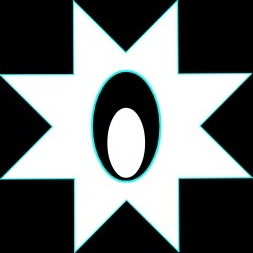
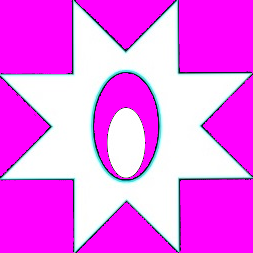
Redid texture file color key codes. Changed beam ammo. Added description to drops. Redid level generator (in progress). Added varying projectile motion. Added different drawing for projectiles.

diff --git a/Project3/Project3/Level.cs b/Project3/Project3/Level.cs
@@ -5,6 +5,7 @@ using System;
 using System.Collections.Generic;
 using Xaria.Drops;
 using Xaria.Enemies;
+using Xaria.Projectiles;
 
 namespace Xaria
 {
@@ -24,7 +25,7 @@ namespace Xaria
         /// <summary>
         /// The enemies
         /// </summary>
-        internal List<List<Enemy>> Enemies = new List<List<Enemy>>();
+        private List<List<Enemy>> Enemies = new List<List<Enemy>>();
         /// <summary>
         /// The spacing between enemies
         /// </summary>
@@ -42,7 +43,7 @@ namespace Xaria
         /// <summary>
         /// The enemies per row
         /// </summary>
-        private const int ENEMIES_PER_ROW = 7;
+        public const int ENEMIES_PER_ROW = 7;
         /// <summary>
         /// A random class for determining enemy shooting
         /// </summary>
@@ -67,35 +68,59 @@ namespace Xaria
         private void GenerateLevel(int difficulty)
         {
             Enemies.Clear();
-            if (difficulty % 5 == 0)
+            if (difficulty % 4 == 0)
             {
                 Enemies.Add(new List<Enemy>());
-                if(difficulty/5 == 1)
+                if(difficulty/4 == 1)
                 {
-                    Enemies[0].Add(new Boss1(new Vector2(random.Next(((int)Game1.screenSize.X - Game1.textureDictionary["boss1"].Width)), random.Next((500 + Game1.textureDictionary["boss1"].Width)))));
+                    Enemies[0].Add(new Boss1(new Vector2(random.Next(((int)Game1.screenSize.X - Game1.textureDictionary["boss1"].Width)), spacing.Y)));
+                    AddRowOfEnemy(typeof(Basic));
+                    AddRowOfEnemy(typeof(Basic));
                 }
-                else if(difficulty/5 == 2)
+                else if(difficulty/4 == 2)
                 {
-                    Enemies[0].Add(new Boss1(new Vector2(random.Next(((int)Game1.screenSize.X - Game1.textureDictionary["boss1"].Width)), random.Next((500 + Game1.textureDictionary["boss1"].Width)))));
-                    Enemies[0].Add(new Boss1(new Vector2(random.Next(((int)Game1.screenSize.X - Game1.textureDictionary["boss1"].Width)), random.Next((500 + Game1.textureDictionary["boss1"].Width)))));
+                    Enemies[0].Add(new Boss1(new Vector2(random.Next(((int)Game1.screenSize.X - Game1.textureDictionary["boss1"].Width)), spacing.Y)));
+                    Enemies[0].Add(new Boss1(new Vector2(random.Next(((int)Game1.screenSize.X - Game1.textureDictionary["boss1"].Width)), spacing.Y)));
+                    AddRowOfEnemy(typeof(Basic));
+                    AddRowOfEnemy(typeof(Basic));
                 }
-                else if(difficulty/5 == 3)
+                else if(difficulty/4 == 3)
                 {
                     Enemies[0].Add(new Boss3(new Vector2(Game1.textureDictionary["boss3"].Width, Game1.textureDictionary["boss3"].Height)));
                 }
-                else if(difficulty/5 == 4)
+                else if(difficulty/4 == 4)
                 {
                     Enemies[0].Add(new Boss4(new Vector2(Game1.textureDictionary["boss4"].Width, Game1.textureDictionary["boss4"].Height)));
                 }
             }
             else
             {
-                for (int i = 1; i <= difficulty; i++) //use rows for difficulty
+                for(int i = 0; i < difficulty % 4; i++)
                 {
-                    Enemies.Add(new List<Enemy>());
-                    for (int x = 1; x <= ENEMIES_PER_ROW; x++) //10 enemies per row
-                        Enemies[i - 1].Add(new Basic(new Vector2((Game1.textureDictionary["basic"].Width + spacing.X) * x - spacing.X + Game1.textureDictionary["basic"].Width * (i % 2), (Game1.textureDictionary["basic"].Height + spacing.Y) * i + spacing.Y)));
+                    AddRowOfEnemy(typeof(Basic));
                 }
+            }
+        }
+
+
+        private void AddRowOfEnemy(Type enemyType)
+        {
+            Enemy prevEnemy = Enemies.Count > 0 ? Enemies[Enemies.Count - 1][0] : null;
+            float newPosY = prevEnemy == null ? spacing.Y : prevEnemy.Position.Y + prevEnemy.Texture.Height + spacing.Y;
+            Enemies.Add(new List<Enemy>());
+            for (int x = 1; x <= ENEMIES_PER_ROW; x++)
+            {
+                Enemy enemy = null;
+                if (enemyType == typeof(Basic))
+                {
+                    enemy = new Basic(new Vector2((Game1.textureDictionary["basic"].Width + spacing.X) * x - spacing.X + Game1.textureDictionary["basic"].Width * (Enemies.Count % 2), newPosY));
+                }
+                else if (enemyType == typeof(Intermediate))
+                {
+                    enemy = new Intermediate(new Vector2((Game1.textureDictionary["intermediate"].Width + spacing.X) * x - spacing.X + Game1.textureDictionary["intermediate"].Width * (Enemies.Count % 2), newPosY));
+                }
+
+                Enemies[Enemies.Count - 1].Add(enemy);
             }
         }
 
@@ -157,7 +182,7 @@ namespace Xaria
         {
             for (int projectileIndex = Projectiles.Count - 1; projectileIndex >= 0; projectileIndex--)
             {
-                Projectiles[projectileIndex].Position += Projectiles[projectileIndex].GetVelocity();
+                Projectiles[projectileIndex].Move();
                 if (player.Intersects(Projectiles[projectileIndex]))
                 {
                     Projectiles[projectileIndex].OnCollision(ref player);
@@ -189,7 +214,7 @@ namespace Xaria
                 }
             foreach (Projectile projectile in Projectiles)
             {
-                projectile.Draw(ref spriteBatch, Color.Red);
+                projectile.DrawFromEnemy(ref spriteBatch);
             }
             foreach(Drop drop in Drops)
             {
@@ -203,15 +228,18 @@ namespace Xaria
         /// </summary>
         internal void MoveDown()
         {
-                foreach (List<Enemy> row in Enemies)
-                    foreach (Basic enemy in row)
+            foreach (List<Enemy> row in Enemies)
+                foreach (Enemy enemy in row)
+                {
+                    if (enemy is Basic || enemy is Intermediate)
                     {
                         enemy.Position.Y += (enemy.Texture.Height + spacing.Y);
                         if (enemy.Position.Y >= Game1.screenSize.Y - Game1.textureDictionary["ship"].Height - 5)
                         {
-                        GameOver();
+                            GameOver();
                         }
                     }
+                }
         }
 
         /// <summary>

diff --git a/Project3/Project3/Enemies/Intermediate.cs b/Project3/Project3/Enemies/Intermediate.cs
@@ -1,32 +1,38 @@
-using Microsoft.Xna.Framework;
-using System;
+using System;
 using System.Collections.Generic;
+using System.Linq;
+using System.Text;
+
+using Android.App;
+using Android.Content;
+using Android.OS;
+using Android.Runtime;
+using Android.Views;
+using Android.Widget;
+using Microsoft.Xna.Framework;
 using Xaria.Drops;
 using Xaria.Projectiles;
 
 namespace Xaria.Enemies
 {
-    /// <summary>
-    /// The basic enemy class.
-    /// </summary>
-    /// <seealso cref="Xaria.Enemy" />
-    class Basic : Enemy
+    class Intermediate : Enemy
     {
         /// <summary>
         /// The health
         /// </summary>
         const int HEALTH = 100;
+        const int NEXT = 7000;
 
         /// <summary>
         /// Initializes a new instance of the <see cref="Basic"/> class.
         /// </summary>
         /// <param name="position">The position.</param>
-        public Basic(Vector2 position)
+        public Intermediate(Vector2 position)
         {
             Health = HEALTH;
             Position = position;
-            NextShoot = Level.random.Next(1000, 10000);
-            Texture = Game1.textureDictionary["basic"];
+            NextShoot = Level.random.Next(1000, NEXT);
+            Texture = Game1.textureDictionary["intermediate"];
         }
 
         /// <summary>
@@ -37,18 +43,18 @@ namespace Xaria.Enemies
         public override void Shoot(GameTime gameTime, ref List<Projectile> Projectiles)
         {
             NextShoot -= gameTime.ElapsedGameTime.Milliseconds;
-            if(NextShoot<= 0)
+            if (NextShoot <= 0)
             {
-                NextShoot = Level.random.Next(1000, 10000);
-                Projectiles.Add(new Laser(Position + new Vector2(Texture.Width / 2f, Texture.Height+ 5f), new Vector2(0, 20), 20)); //moving down
+                NextShoot = Level.random.Next(1000, NEXT);
+                Projectiles.Add(new Rocket(Position + new Vector2(Texture.Width / 2f, Texture.Height + 5f), new Vector2(0, 20), 20)); //moving down
             }
         }
 
         internal override void OnDeath(ref List<Drop> drops)
         {
-            if(Level.random.Next(20) == 1) // 1/x chance of giving drop
+            if (Level.random.Next(20) == 1) // 1/x chance of giving drop
             {
-                 drops.Add(new Shield(Position + new Vector2(Texture.Width/2f, Texture.Height), 50));
+                 drops.Add(new RocketAmmo(Position + new Vector2(Texture.Width / 2f, Texture.Height), 10));
             }
         }
 

diff --git a/Project3/Project3/Game1.cs b/Project3/Project3/Game1.cs
@@ -130,11 +130,14 @@ namespace Xaria
             textureDictionary.Add("ship", Content.Load<Texture2D>("player_ship"));
             textureDictionary.Add("star", Content.Load<Texture2D>("star"));
             textureDictionary.Add("basic", Content.Load<Texture2D>("Enemies/basic"));
+            textureDictionary.Add("intermediate", Content.Load<Texture2D>("Enemies/intermediate"));
             textureDictionary.Add("boss1", Content.Load<Texture2D>("Enemies/boss1"));
             textureDictionary.Add("beam", Content.Load<Texture2D>("Projectiles/beam"));
             textureDictionary.Add("laser", Content.Load<Texture2D>("Projectiles/laser"));
             textureDictionary.Add("rocket", Content.Load<Texture2D>("Projectiles/rocket"));
             textureDictionary.Add("shield", Content.Load<Texture2D>("Drops/shield"));
+            textureDictionary.Add("beamAmmo", Content.Load<Texture2D>("Drops/beamAmmo"));
+            textureDictionary.Add("rocketAmmo", Content.Load<Texture2D>("Drops/rocketAmmo"));
             textureDictionary.Add("life", Content.Load<Texture2D>("Drops/life"));
 
             font = Content.Load<SpriteFont>("font");

diff --git a/Project3/Project3/Drops/Drop.cs b/Project3/Project3/Drops/Drop.cs
@@ -1,4 +1,5 @@
 using Microsoft.Xna.Framework;
+using Microsoft.Xna.Framework.Graphics;
 
 namespace Xaria.Drops
 {
@@ -10,5 +11,13 @@ namespace Xaria.Drops
         public readonly Vector2 Velocity = new Vector2(0, DROP_SPEED);
 
         public abstract void OnReceive(ref Player player);
+
+        public override abstract string ToString();
+
+        public override void Draw(ref SpriteBatch spriteBatch)
+        {
+            spriteBatch.Draw(Texture, Position, Color.White);
+            spriteBatch.DrawString(Game1.font, ToString(), new Vector2(Position.X, Position.Y + Texture.Height + 2f), Color.White);
+        }
     }
 }

diff --git a/Project3/Project3/Projectiles/Projectile.cs b/Project3/Project3/Projectiles/Projectile.cs
@@ -1,4 +1,5 @@
 using Microsoft.Xna.Framework;
+using Microsoft.Xna.Framework.Graphics;
 using System.Collections.Generic;
 using System;
 
@@ -30,14 +31,16 @@ namespace Xaria
 
         public abstract void OnCollision(ref Player player);
 
+        public abstract void DrawFromEnemy(ref SpriteBatch spriteBatch);
+
+        public virtual void Move()
+        {
+            Position += Velocity;
+        }
+
         public bool IsImmovable()
         {
             return Immovable;
-        }
-
-        public Vector2 GetVelocity()
-        {
-            return Velocity;
         }
     }
 }

diff --git a/Project3/Project3/Projectiles/Rocket.cs b/Project3/Project3/Projectiles/Rocket.cs
@@ -52,5 +52,16 @@ namespace Xaria.Projectiles
         {
             return new Rectangle((int)Position.X - 100, (int)Position.Y - 100, 200, 200);
         }
+
+        public override void Move()
+        {
+            Position += Velocity;
+            Velocity = new Vector2(Velocity.X, Velocity.Y * 1.01f);
+        }
+
+        public override void DrawFromEnemy(ref SpriteBatch spriteBatch)
+        {
+            spriteBatch.Draw(Texture, Position, null, Color.White, 0f, Vector2.Zero, 1f, SpriteEffects.FlipHorizontally, 0f);
+        }
     }
 }

diff --git a/Project3/Project3/Projectiles/Laser.cs b/Project3/Project3/Projectiles/Laser.cs
@@ -1,5 +1,6 @@
 using System.Collections.Generic;
 using Microsoft.Xna.Framework;
+using Microsoft.Xna.Framework.Graphics;
 
 namespace Xaria.Projectiles
 {
@@ -22,6 +23,11 @@ namespace Xaria.Projectiles
             Velocity = velocity;
             Texture = Game1.textureDictionary["laser"];
             Damage = damage;
+        }
+
+        public override void DrawFromEnemy(ref SpriteBatch spriteBatch)
+        {
+            Draw(ref spriteBatch, Color.Red);
         }
 
         /* @Pre: laser projectile overlaps enemy sprite

diff --git a/Project3/Project3/Projectiles/Beam.cs b/Project3/Project3/Projectiles/Beam.cs
@@ -1,4 +1,5 @@
 using Microsoft.Xna.Framework;
+using Microsoft.Xna.Framework.Graphics;
 using System.Collections.Generic;
 
 namespace Xaria.Projectiles
@@ -23,6 +24,11 @@ namespace Xaria.Projectiles
             Texture = Game1.textureDictionary["beam"];
             Damage = damage;
             Immovable = immovable;
+        }
+
+        public override void DrawFromEnemy(ref SpriteBatch spriteBatch)
+        {
+            Draw(ref spriteBatch, Color.Red);
         }
 
         /* @Pre: beam projectile overlaps player sprite

diff --git a/Project3/Project3/Drops/RocketAmmo.cs b/Project3/Project3/Drops/RocketAmmo.cs
@@ -23,12 +23,17 @@ namespace Xaria.Drops
         {
             Position = position;
             amount = Amount;
-            Texture = Game1.textureDictionary["rocket"];
+            Texture = Game1.textureDictionary["rocketAmmo"];
         }
 
         public override void OnReceive(ref Player player)
         {
             player.IncreaseAmmo(typeof(Rocket), amount);
+        }
+
+        public override string ToString()
+        {
+            return "Rocket Ammo: " + amount.ToString();
         }
     }
 }

diff --git a/Project3/Project3/Drops/BeamAmmo.cs b/Project3/Project3/Drops/BeamAmmo.cs
@@ -22,12 +22,17 @@ namespace Xaria.Drops
         {
             Position = position;
             amount = Amount;
-            Texture = Game1.textureDictionary["beam"];
+            Texture = Game1.textureDictionary["beamAmmo"];
         }
 
         public override void OnReceive(ref Player player)
         {
             player.IncreaseAmmo(typeof(Beam), amount);
+        }
+
+        public override string ToString()
+        {
+            return "Beam Ammo: " + amount.ToString();
         }
     }
 }

diff --git a/Project3/Project3/Enemies/Boss1.cs b/Project3/Project3/Enemies/Boss1.cs
@@ -50,7 +50,7 @@ namespace Xaria.Enemies
             Countdown -= gameTime.ElapsedGameTime.Milliseconds;
             if (Countdown <= 0)
             {
-                Position = new Vector2(Level.random.Next(((int)Game1.screenSize.X - Texture.Width)), Level.random.Next((500 + Texture.Height)));
+                Position = new Vector2(Level.random.Next(((int)Game1.screenSize.X - Texture.Width)), Position.Y);
                 Countdown = NEXT_TELEPORT;
                 CanShoot = true;
             }

diff --git a/Project3/Project3/Player.cs b/Project3/Project3/Player.cs
@@ -97,7 +97,7 @@ namespace Xaria
                     Projectiles.RemoveAt(projectileIndex);
                     continue;
                 }
-                projectile.Position += projectile.GetVelocity();
+                projectile.Move();
 
                 for (int y = Enemies.Count - 1; y >= 0; y--)
                     for (int x = Enemies[y].Count - 1; x >= 0; x--) //lower rows are more likely to be hit by a projecitle
